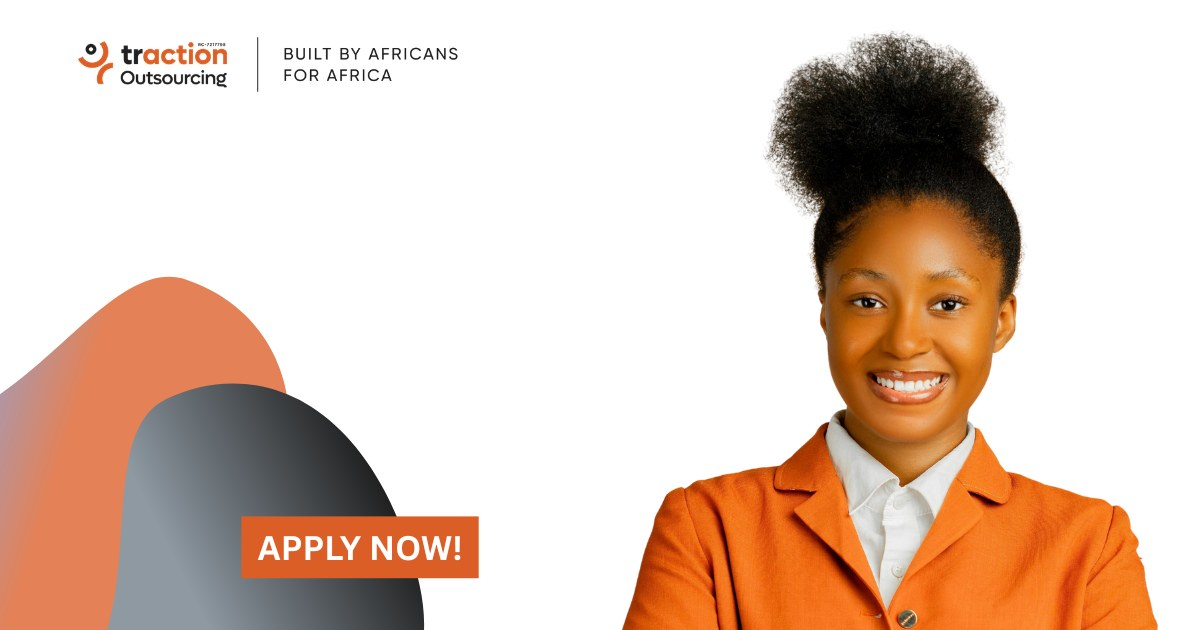
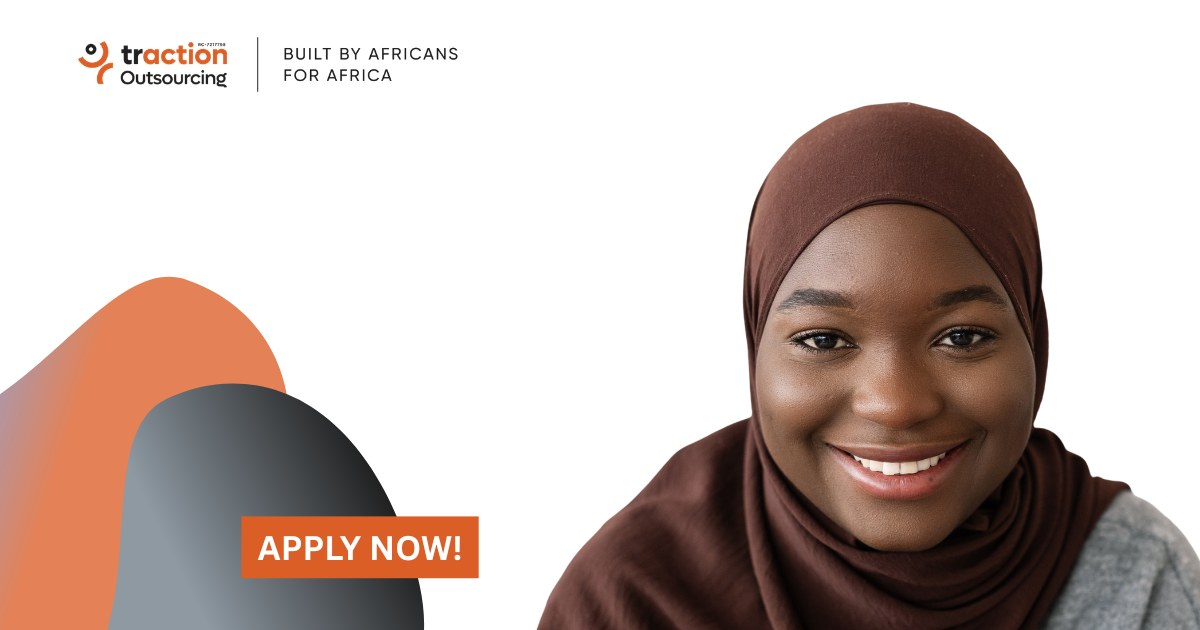
Auto-build: publish site from source/ [skip ci]

Changed region(s): [[0.4317, 0.0302, 1.0, 1.0]]

diff --git a/apply/sales-assistant/index.html b/apply/sales-assistant/index.html
@@ -23,12 +23,12 @@
   <meta property="og:image" content="https://tolnigeria.com/images/jobs/sales-assistant.jpg">
   <meta property="og:image:width" content="1200">
   <meta property="og:image:height" content="630">
-  <meta property="og:image:alt" content="Smiling woman in an orange blazer beside the Traction Outsourcing logo and an Apply Now button, for the Sales Assistant job">
+  <meta property="og:image:alt" content="Smiling woman in a brown hijab and grey top beside the Traction Outsourcing logo and an Apply Now button, for the Sales Assistant job">
   <meta name="twitter:card" content="summary_large_image">
   <meta name="twitter:title" content="Sales Assistant Job, Wuse 2, Abuja | Traction Outsourcing">
   <meta name="twitter:description" content="Sales Assistant job in Wuse 2, Abuja at ₦100,000/month. Full-time role with a clothing store. 1-2 years' experience required. Apply online at Traction Outsourcing Limited.">
   <meta name="twitter:image" content="https://tolnigeria.com/images/jobs/sales-assistant.jpg">
-  <meta name="twitter:image:alt" content="Smiling woman in an orange blazer beside the Traction Outsourcing logo and an Apply Now button, for the Sales Assistant job">
+  <meta name="twitter:image:alt" content="Smiling woman in a brown hijab and grey top beside the Traction Outsourcing logo and an Apply Now button, for the Sales Assistant job">
   <link rel="icon" type="image/x-icon" href="/images/favicon.ico">
   <link rel="preload" href="https://cdnjs.cloudflare.com/ajax/libs/font-awesome/6.5.1/css/all.min.css" as="style" onload="this.onload=null;this.rel='stylesheet'">
   <noscript><link rel="stylesheet" href="https://cdnjs.cloudflare.com/ajax/libs/font-awesome/6.5.1/css/all.min.css"></noscript>

diff --git a/apply/index.html b/apply/index.html
@@ -189,7 +189,7 @@
         
         <article class="card job-card job-card-v2 reveal" data-state="open" data-search="sales assistant wuse 2  abuja">
           <div class="job-media">
-            <img src="/images/jobs/sales-assistant.jpg" alt="Smiling woman in an orange blazer beside the Traction Outsourcing logo and an Apply Now button, for the Sales Assistant job" width="1200" height="630" loading="lazy">
+            <img src="/images/jobs/sales-assistant.jpg" alt="Smiling woman in a brown hijab and grey top beside the Traction Outsourcing logo and an Apply Now button, for the Sales Assistant job" width="1200" height="630" loading="lazy">
           </div>
           <div class="job-card-inner">
             <span class="job-badge">Open</span>
